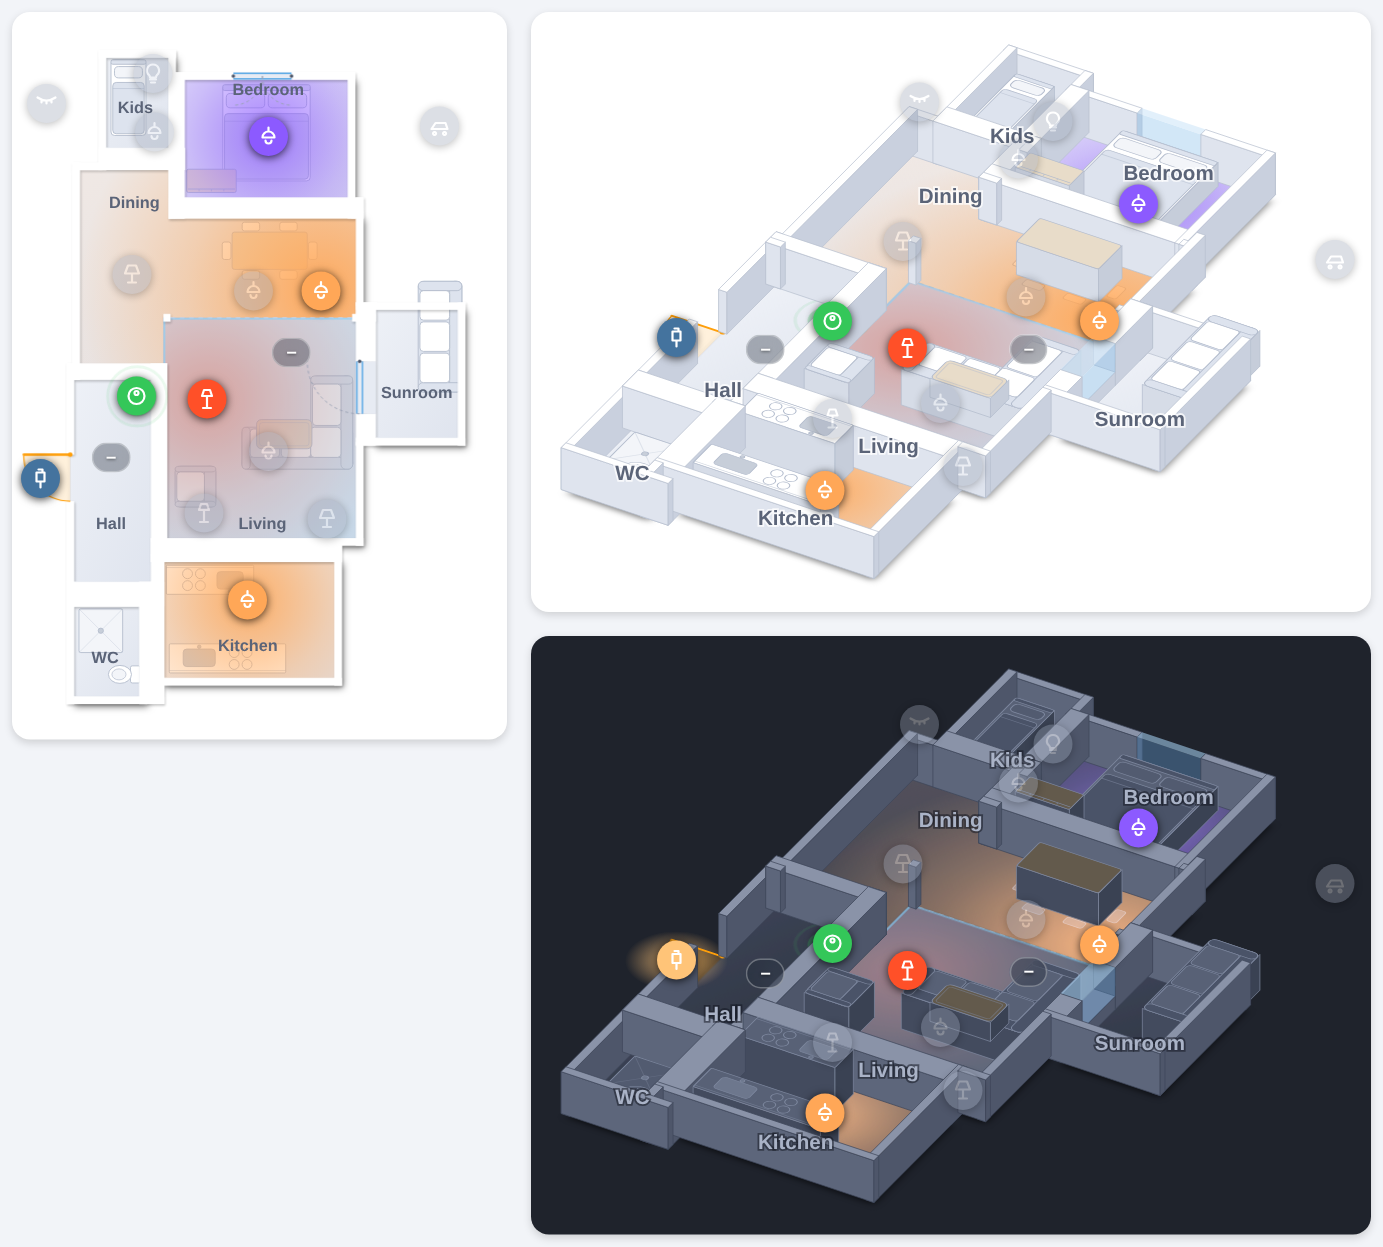
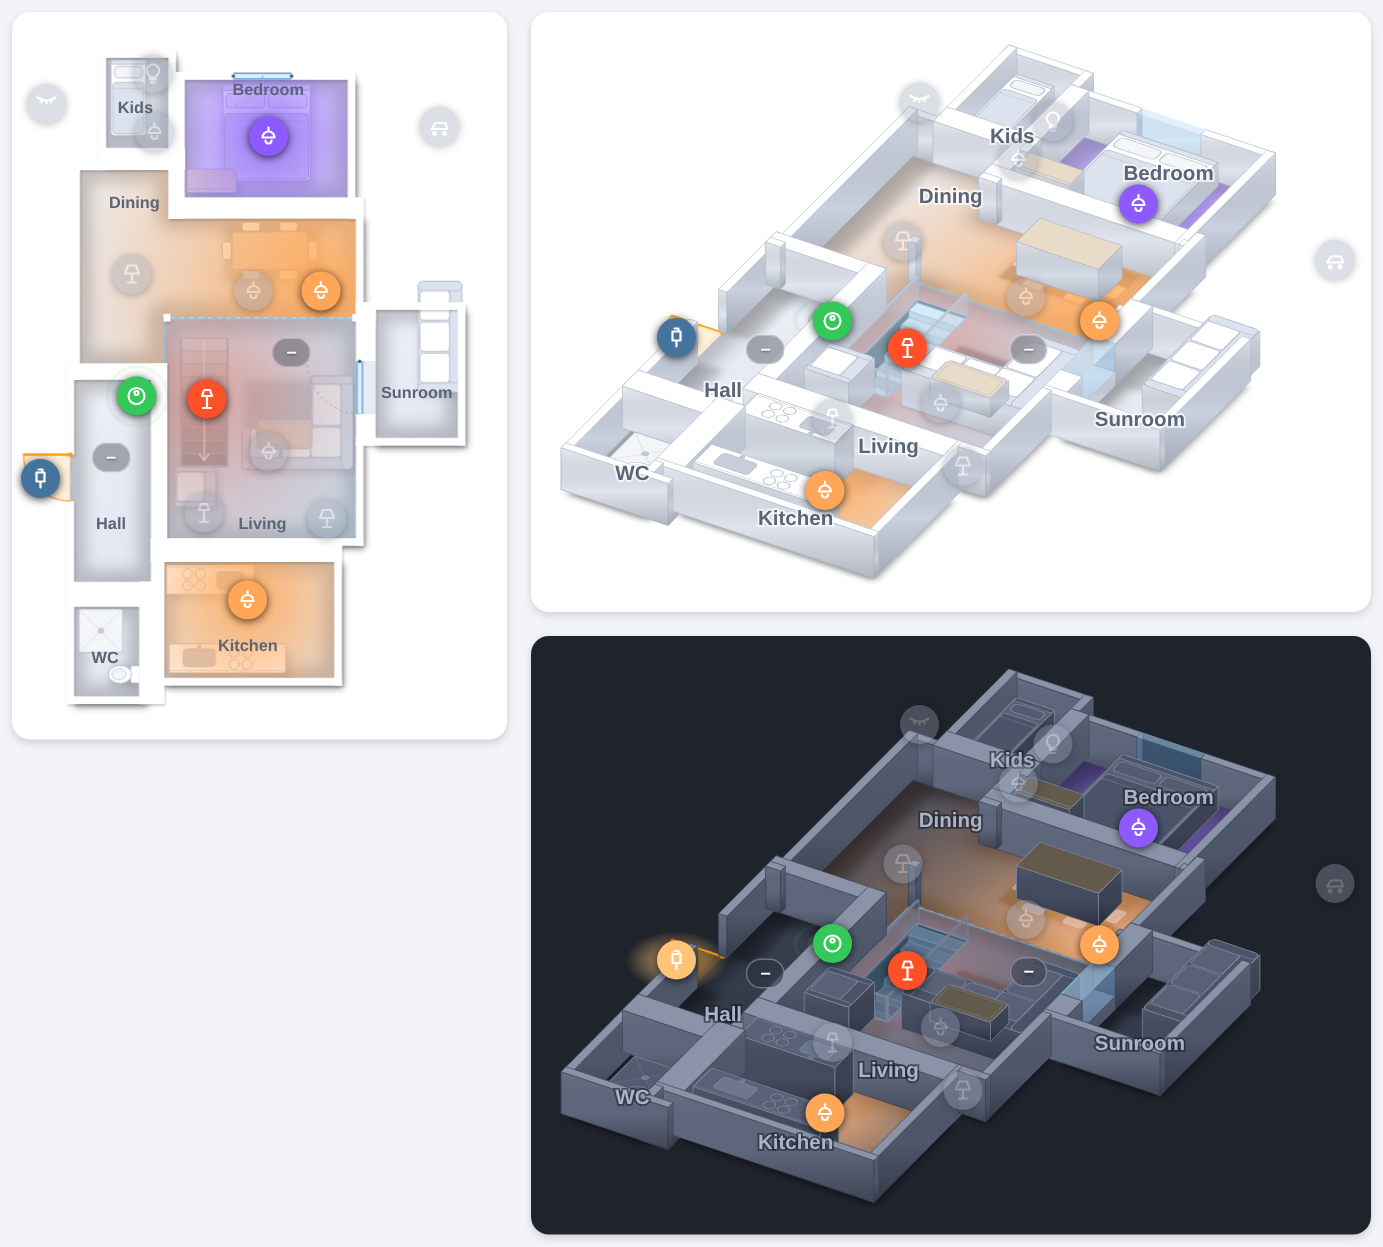
v1.5.0: depth shading (ambient occlusion, cast shadows) and stairs going down
Claude-Session: https://claude.ai/code/session_01Y1uamTQvJ6NkutXHn69Ndq

diff --git a/glow-floorplan-card.js b/glow-floorplan-card.js
@@ -10,7 +10,7 @@
  * License: MIT
  */
 
-const VERSION = "1.4.4";
+const VERSION = "1.5.0";
 const CARD_TAG = "glow-floorplan-card";
 const EDITOR_TAG = "glow-floorplan-card-editor";
 
@@ -50,6 +50,8 @@ const PALETTE = {
     dash: "#c9d0de",
     text: "#5b6478",
     shadow: 0.5,
+    ao: 0.2,
+    cast: 0.16,
   },
   night: {
     bg: "transparent",
@@ -60,6 +62,8 @@ const PALETTE = {
     dash: "#555d70",
     text: "#aab3c7",
     shadow: 0.6,
+    ao: 0.38,
+    cast: 0.3,
   },
 };
 
@@ -238,7 +242,8 @@ const FURNITURE = {
   kitchen_counter: { name: "Køkkenbord", w: 200, h: 50, z: 75 },
   washing_machine: { name: "Vaskemaskine", w: 50, h: 50, z: 70 },
   dryer: { name: "Tørretumbler", w: 50, h: 50, z: 70 },
-  stairs: { name: "Trappe", w: 80, h: 230, z: 95, stairs: true },
+  stairs: { name: "Trappe op", w: 80, h: 230, z: 95, stairs: true },
+  stairs_down: { name: "Trappe ned", w: 80, h: 230, z: 40, down: true, depth: 110 },
 };
 
 const FURN_PALETTE = {
@@ -359,6 +364,21 @@ function furnitureDrawing(type, w, h, q, part = "all") {
       out.push(C(w / 2, h - 10, 4, q.line));
       break;
     }
+    case "stairs_down": {
+      // The top step is at y = 0; each step further on is darker (lower), the arrow points down.
+      // A railing runs along both long sides and the far end.
+      const n = Math.max(3, Math.round(h / 22));
+      out.push(R(0, 0, w, h, q.soft, 2));
+      for (let i = 0; i < n; i++) {
+        out.push(`<rect x="0" y="${(h / n) * i}" width="${w}" height="${h / n}" fill="#000" fill-opacity="${(0.04 + (0.34 * i) / (n - 1)).toFixed(3)}"/>`);
+        if (i) out.push(L(0, (h / n) * i, w, (h / n) * i));
+      }
+      out.push(`<polyline points="0,0 0,${h} ${w},${h} ${w},0" fill="none" stroke="${q.line}" stroke-width="4" stroke-linejoin="round"/>`);
+      out.push(`<line x1="${w / 2}" y1="10" x2="${w / 2}" y2="${h - 12}" stroke="${q.fur}" stroke-width="2.5"/>`);
+      out.push(`<polyline points="${w / 2 - 9},${h - 22} ${w / 2},${h - 10} ${w / 2 + 9},${h - 22}" fill="none" stroke="${q.fur}" stroke-width="2.5" stroke-linejoin="round"/>`);
+      out.push(`<circle cx="${w / 2}" cy="10" r="4" fill="${q.fur}"/>`);
+      break;
+    }
     case "coffee_table":
       out.push(R(0, 0, w, h, q.wood, 8));
       out.push(R(5, 5, w - 10, h - 10, "none", 5, 'stroke-opacity="0.5"'));
@@ -402,6 +422,25 @@ function furnitureDrawing(type, w, h, q, part = "all") {
       out.push(R(0, 0, w, h, q.fur, 4));
   }
   return out.join("");
+}
+
+/** Convex hull (monotone chain) of plan points, used for soft cast shadows. */
+function hull(points) {
+  const p = points.map((q) => [q[0], q[1]]).sort((a, b) => a[0] - b[0] || a[1] - b[1]);
+  if (p.length < 3) return p;
+  const cross = (o, a, b) => (a[0] - o[0]) * (b[1] - o[1]) - (a[1] - o[1]) * (b[0] - o[0]);
+  const lo = [];
+  for (const q of p) {
+    while (lo.length >= 2 && cross(lo[lo.length - 2], lo[lo.length - 1], q) <= 0) lo.pop();
+    lo.push(q);
+  }
+  const up = [];
+  for (let i = p.length - 1; i >= 0; i--) {
+    const q = p[i];
+    while (up.length >= 2 && cross(up[up.length - 2], up[up.length - 1], q) <= 0) up.pop();
+    up.push(q);
+  }
+  return lo.slice(0, -1).concat(up.slice(0, -1));
 }
 
 /** 2D placement transform: x, y is the top-left corner before rotation; rotation is about the centre. */
@@ -543,7 +582,9 @@ class Renderer {
     const q = FURN_PALETTE[this.mode()];
     const u = this.uid;
     const glowStrength = c.glow_strength === undefined ? 1 : Number(c.glow_strength);
-    const out = { defs: [], floor: [], glow: [], pulses: [], labels: [], hits: [], furniture: [], furnitureFloor: [], openings: "", p, q };
+    const out = { defs: [], floor: [], ao: [], shadows: [], glow: [], pulses: [], labels: [], hits: [], furniture: [], furnitureFloor: [], openings: "", p, q };
+    const shade = c.shading !== false;
+    const ww = c.wall_width || 24;
 
     out.defs.push(`
       <linearGradient id="f-${u}" x1="0" y1="0" x2="1" y2="1">
@@ -554,7 +595,16 @@ class Renderer {
       </filter>
       <filter id="shw-${u}" x="-5%" y="-5%" width="110%" height="110%">
         <feDropShadow dx="1.5" dy="2.5" stdDeviation="1.8" flood-color="#000" flood-opacity="${(p.shadow * 0.5).toFixed(2)}"/>
-      </filter>`);
+      </filter>
+      <filter id="ao-${u}" x="-10%" y="-10%" width="120%" height="120%"><feGaussianBlur stdDeviation="${(ww * 0.55).toFixed(1)}"/></filter>
+      <filter id="cs-${u}" x="-20%" y="-20%" width="140%" height="140%"><feGaussianBlur stdDeviation="7"/></filter>
+      <filter id="ct-${u}" x="-20%" y="-20%" width="140%" height="140%"><feGaussianBlur stdDeviation="2.2"/></filter>
+      <linearGradient id="sd-${u}" x1="0" y1="0" x2="0" y2="1">
+        <stop offset="0" stop-color="#fff" stop-opacity="${this.mode() === "night" ? 0.06 : 0.25}"/>
+        <stop offset="0.55" stop-color="#000" stop-opacity="0"/>
+        <stop offset="1" stop-color="#000" stop-opacity="${this.mode() === "night" ? 0.32 : 0.2}"/>
+      </linearGradient>`);
+    out.defs.push(`<clipPath id="cpall-${u}">${c.rooms.filter((r) => r.points.length >= 3).map((r) => `<polygon points="${r.points.map((v) => v.join(",")).join(" ")}"/>`).join("")}</clipPath>`);
 
     c.rooms.forEach((r, i) => {
       if (r.points.length < 3) return;
@@ -562,6 +612,8 @@ class Renderer {
       out.defs.push(`<clipPath id="cp-${u}-${i}"><polygon points="${pts}"/></clipPath>`);
       // Walls are drawn separately (same geometry as in 3D), so floors get only a hairline.
       out.floor.push(`<polygon points="${pts}" fill="url(#f-${u})" stroke="${p.floorB}" stroke-width="1.5" stroke-linejoin="miter"/>`);
+      // Ambient occlusion: the floor darkens softly towards the walls.
+      if (shade) out.ao.push(`<g clip-path="url(#cp-${u}-${i})"><polygon points="${pts}" fill="none" stroke="#000" stroke-width="${(ww * 2.2).toFixed(1)}" stroke-linejoin="round" filter="url(#ao-${u})"/></g>`);
     });
 
     out.openings = c.openings
@@ -580,6 +632,12 @@ class Renderer {
         if (FURNITURE[f.type] && FURNITURE[f.type].chairs) out.furnitureFloor.push(`<g transform="${t}">${furnitureDrawing(f.type, w, h, q, "floor")}</g>`);
       } else {
         out.furniture.push(`<g transform="${t}">${furnitureDrawing(f.type, w, h, q)}</g>`);
+        const spec = FURNITURE[f.type] || {};
+        if (shade && !spec.down && spec.z > 10) {
+          // Seen from above, light from the upper left: a soft shadow down and to the right.
+          const o = Math.min(14, spec.z * 0.09);
+          out.shadows.push(`<g transform="translate(${o.toFixed(1)} ${(o * 1.3).toFixed(1)})"><g transform="${t}"><rect width="${w}" height="${h}" rx="6"/></g></g>`);
+        }
       }
     });
 
@@ -648,6 +706,18 @@ class Renderer {
     return out;
   }
 
+  /** Floor shading in plan coordinates: ambient occlusion along the walls, then cast shadows. */
+  depthLayer(P, cast = P.shadows, contact = []) {
+    if (this.c.shading === false) return "";
+    const u = this.uid;
+    return `<g pointer-events="none">
+      <g opacity="${P.p.ao}">${P.ao.join("")}</g>
+      <g clip-path="url(#cpall-${u})">
+        <g opacity="${P.p.cast}" fill="#000" filter="url(#cs-${u})">${cast.join("")}</g>
+        <g opacity="${(P.p.cast * 1.6).toFixed(2)}" fill="#000" filter="url(#ct-${u})">${contact.join("")}</g>
+      </g></g>`;
+  }
+
   labelSvg(x, y, text, p) {
     return `<text x="${x}" y="${y}" font-family="Helvetica,Arial,sans-serif" font-size="${this.c.label_size || 28}" font-weight="600" fill="${p.text}" text-anchor="middle" dominant-baseline="middle">${esc(text)}</text>`;
   }
@@ -681,6 +751,7 @@ class Renderer {
     return `<svg class="plan" viewBox="0 0 ${W} ${H}" xmlns="http://www.w3.org/2000/svg" preserveAspectRatio="xMidYMid meet">
       <defs>${P.defs.join("")}</defs>
       <g filter="url(#sh-${u})">${P.floor.join("")}</g>
+      ${this.depthLayer(P)}
       <g pointer-events="none">${P.furniture.join("")}</g>
       <g>${P.glow.join("")}</g>
       <g>${roomPulses.join("")}</g>
@@ -874,7 +945,10 @@ class Renderer {
       if (facing <= 0) continue;
       const lit = nx * v.cos - ny * v.sin < 0; // left-facing sides catch the light
       const q = [v.proj(x1, y1, z0), v.proj(x2, y2, z0), v.proj(x2, y2, z1), v.proj(x1, y1, z1)];
-      faces.push(`<polygon points="${q.map((c) => c.map((n2) => n2.toFixed(1)).join(",")).join(" ")}" fill="${lit ? colors.side : colors.side2}" ${opts.sideExtra || ""} stroke="${colors.edge || "none"}" stroke-width="1"/>`);
+      const qp = q.map((c) => c.map((n2) => n2.toFixed(1)).join(",")).join(" ");
+      faces.push(`<polygon points="${qp}" fill="${lit ? colors.side : colors.side2}" ${opts.sideExtra || ""} stroke="${colors.edge || "none"}" stroke-width="1"/>`);
+      // Height shading: a touch of light at the top edge, darker where the side meets the floor.
+      if (this.c.shading !== false && !opts.flat && z1 - z0 > 8) faces.push(`<polygon points="${qp}" fill="url(#sd-${this.uid})" ${opts.sideExtra || ""}/>`);
     }
     if (!opts.noTop) {
       const top = corners.map(([x, y]) => v.proj(x, y, z1));
@@ -975,6 +1049,57 @@ class Renderer {
     return out;
   }
 
+  /**
+   * Stairs going down: an opening in the floor with the steps sinking into it.
+   * Everything below the floor is clipped to the opening, so the floor in
+   * front of it hides the near side, like looking down a real stairwell.
+   */
+  pit3d(f, w, h, spec, q, pits, defs, items) {
+    const v = this.view3d();
+    const u = this.uid;
+    const D = Number(f.depth) || spec.depth || 110;
+    const n = Math.max(3, Math.round(h / 22));
+    const W = (lx, ly) => furnitureLocalToWorld(f, w, h, lx, ly);
+    const P2 = (pts) => pts.map((c) => c.map((n2) => n2.toFixed(1)).join(",")).join(" ");
+    const id = `pit-${u}-${this.c.furniture.indexOf(f)}`;
+    const open = [[0, 0], [w, 0], [w, h], [0, h]].map(([x, y]) => W(x, y));
+    defs.push(`<clipPath id="${id}"><polygon points="${P2(open.map(([x, y]) => v.proj(x, y, 0)))}"/></clipPath>`);
+    const dark = this.mode() === "night" ? 0.55 : 0.42;
+    const out = [];
+    // Shaft walls, far ones first.
+    const edges = open.map((a, i) => [a, open[(i + 1) % 4]]).sort((A, B) => v.depth(...A[0]) + v.depth(...A[1]) - v.depth(...B[0]) - v.depth(...B[1]));
+    out.push(`<polygon points="${P2(open.map(([x, y]) => v.proj(x, y, -D)))}" fill="${q.side2}"/>`);
+    for (const [a, b] of edges) {
+      const quad = [v.proj(a[0], a[1], 0), v.proj(b[0], b[1], 0), v.proj(b[0], b[1], -D), v.proj(a[0], a[1], -D)];
+      out.push(`<polygon points="${P2(quad)}" fill="${q.side}" stroke="${q.line}" stroke-width="1"/><polygon points="${P2(quad)}" fill="#000" fill-opacity="${dark}"/>`);
+    }
+    // Steps: the first one is one riser below the floor at y = 0.
+    const steps = [];
+    for (let i = 0; i < n; i++) {
+      const y1 = (h / n) * i;
+      const y2 = (h / n) * (i + 1);
+      const top = -(D / n) * (i + 1) + D / n / 2;
+      const pts = [[0, y1], [w, y1], [w, y2], [0, y2]].map(([x, y]) => W(x, y));
+      const mid = W(w / 2, (y1 + y2) / 2);
+      const shade = `<polygon points="${P2(pts.map(([x, y]) => v.proj(x, y, top)))}" fill="#000" fill-opacity="${((dark * i) / (n - 1)).toFixed(3)}"/>`;
+      steps.push({ d: v.depth(...mid), svg: this.prism(pts, -D, top, { top: q.soft, side: q.side, side2: q.side2, edge: q.line }, { flat: true }) + shade });
+    }
+    steps.sort((a, b) => a.d - b.d);
+    out.push(...steps.map((st) => st.svg));
+    pits.push(`<g clip-path="url(#${id})">${out.join("")}</g><polygon points="${P2(open.map(([x, y]) => v.proj(x, y, 0)))}" fill="none" stroke="${q.line}" stroke-width="1.5"/>`);
+    // Glass railing on the two long sides and the far end.
+    if (f.railing !== false) {
+      const r = 3;
+      const glass = { top: q.metal, side: q.metal, side2: q.metal, edge: q.line };
+      const rails = [[[0, 0], [r, h]], [[w - r, 0], [w, h]], [[0, h - r], [w, h]]];
+      for (const [[x1, y1], [x2, y2]] of rails) {
+        const foot = [[x1, y1], [x2, y1], [x2, y2], [x1, y2]].map(([x, y]) => W(x, y));
+        const c = W((x1 + x2) / 2, (y1 + y2) / 2);
+        items.push({ d: v.depth(...c), foot, svg: this.prism(foot, 0, spec.z, glass, { flat: true, sideExtra: 'fill-opacity="0.4"' }) });
+      }
+    }
+  }
+
   svg3d() {
     const v = this.view3d();
     const P = this.parts();
@@ -986,6 +1111,16 @@ class Renderer {
     const glassCol = { top: night ? "#9fc8ea" : "#cfe6f8", side: night ? "#5a8fbf" : "#9cc9ee", side2: night ? "#4d7fac" : "#86b9e3", edge: "none" };
     const t = (this.c.wall_width || 24) * 0.55;
     const items = [];
+    const cast = [];
+    const contact = [];
+    const pits = [];
+    const pitDefs = [];
+    // Light from the upper left of the screen: shadows fall right and a little towards the viewer.
+    const sd = [v.cos * 0.5 + v.sin * 0.22, -v.sin * 0.5 + v.cos * 0.22];
+    const shadowOf = (foot, z) => {
+      const pts = [...foot, ...foot.map(([x, y]) => [x + sd[0] * z, y + sd[1] * z])];
+      return `<polygon points="${hull(pts).map((c) => c.map((n2) => n2.toFixed(1)).join(",")).join(" ")}"/>`;
+    };
 
     for (const s of this.wallSegments()) {
       if (s.kind === "gap") continue;
@@ -1001,6 +1136,7 @@ class Renderer {
         const sill = v.wallH * 0.32;
         svg = this.prism(foot, 0, sill, wallCol) + this.prism(foot, sill, v.wallH, glassCol, { sideExtra: 'fill-opacity="0.45"', topExtra: 'fill-opacity="0.6"' });
       } else svg = this.prism(foot, 0, v.wallH, wallCol);
+      cast.push(shadowOf(foot, s.kind === "glass" ? v.wallH * 0.45 : v.wallH));
       items.push({ d: v.depth((ax + bx) / 2, (ay + by) / 2), foot, svg });
     }
 
@@ -1010,6 +1146,12 @@ class Renderer {
       const [w, h, spec] = furnitureSize(f);
       const z = spec.z;
       const [cx, cy] = [f.x + w / 2, f.y + h / 2];
+      if (spec.down) {
+        this.pit3d(f, w, h, spec, q, pits, pitDefs, items);
+        return;
+      }
+      cast.push(shadowOf(furnitureCorners(f, w, h), z));
+      contact.push(`<polygon points="${furnitureCorners(f, w, h).map((c) => c.join(",")).join(" ")}"/>`);
       if (spec.stairs) {
         // Real steps: each band is a little higher than the one in front of it.
         const n = Math.max(3, Math.round(h / 22));
@@ -1044,12 +1186,18 @@ class Renderer {
       })
       .join("");
     return `<svg class="plan" viewBox="${vx} ${vy} ${vw} ${vh}" xmlns="http://www.w3.org/2000/svg" preserveAspectRatio="xMidYMid meet">
-      <defs>${P.defs.join("")}</defs>
+      <defs>${P.defs.join("")}${pitDefs.join("")}</defs>
       <g transform="${v.matrix(0)}">
         <g filter="url(#sh-${u})">${P.floor.join("")}</g>
+        ${this.depthLayer(P, cast, contact)}
+      </g>
+      <g transform="${v.matrix(0)}">
         ${P.openings}
         <g pointer-events="none">${P.furnitureFloor.join("")}</g>
         <g>${P.glow.join("")}</g>
+      </g>
+      <g pointer-events="none">${pits.join("")}</g>
+      <g transform="${v.matrix(0)}">
         ${P.doorFront}
         <g>${P.pulses.join("")}</g>
         <g>${P.hits.join("")}</g>

diff --git a/test/readme-shot.js b/test/readme-shot.js
@@ -9,6 +9,7 @@ cfg.furniture = [
   { type: 'armchair', x: 280, y: 780, rotation: 90 }, { type: 'kitchen_counter', x: 270, y: 1085 },
   { type: 'kitchen_counter', x: 265, y: 950, w: 150, rotation: 180 }, { type: 'toilet', x: 175, y: 1110, rotation: 90 },
   { type: 'shower', x: 115, y: 1025 }, { type: 'sofa_3', x: 640, y: 520, rotation: 90 },
+  { type: 'stairs_down', x: 290, y: 560, w: 80, h: 220 },
 ];
 cfg.doors = [{ type: 'door', line: [100, 760, 100, 840], sensor: 'binary_sensor.front_door' },
   { type: 'window', line: [597, 600, 597, 690] }, { type: 'window', line: [380, 110, 480, 110], leaves: 2 }];
@@ -59,6 +60,6 @@ const S = (night) => ({ 'sun.sun': { state: night ? 'below_horizon' : 'above_hor
     return { x, y, width: Math.max(...rs.map((r) => r.right)) - x, height: Math.max(...rs.map((r) => r.bottom)) - y };
   });
   await page.setViewportSize({ width: 1460, height: Math.ceil(box.y + box.height + 40) });
-  await page.screenshot({ path: __dirname + '/../images/preview.png', clip: { x: box.x - 8, y: box.y - 8, width: box.width + 16, height: box.height + 16 } });
+  await page.screenshot({ path: (process.argv[2] || __dirname + '/../images/preview.png'), clip: { x: box.x - 8, y: box.y - 8, width: box.width + 16, height: box.height + 16 } });
   await b.close();
 })();

diff --git a/README.md b/README.md
@@ -135,9 +135,19 @@ furniture:
     rotation: 90         # degrees, about the centre
 ```
 
-More types: `stairs` (steps with an arrow pointing up; real steps in 3D), `washing_machine`, `dryer`, `desk` (with an office chair).
+More types: `stairs` (stairs going up: an arrow pointing up, real steps in 3D), `stairs_down` (stairs going down: an opening in the floor with steps that sink into it in 3D), `washing_machine`, `dryer`, `desk` (with an office chair).
+
+For `stairs_down` the top step is at the back of the piece (y = 0 before rotation), and the arrow points down the stairs. Optional keys: `depth` (how far the stairwell goes down in 3D, default 110) and `railing: false` to leave out the glass railing.
 
 Furniture is static: it is drawn like an architect's plan in 2D and as blocks in 3D.
+
+### Depth and shadows
+
+Floors darken softly towards the walls (ambient occlusion), and walls and furniture cast soft shadows on the floor, so the plan reads as a model rather than a flat drawing. In 3D the sides of walls and furniture also get lighter at the top and darker towards the floor. Light comes from the upper left. Turn it all off with:
+
+```yaml
+shading: false
+```
 
 ### 3D view
 
